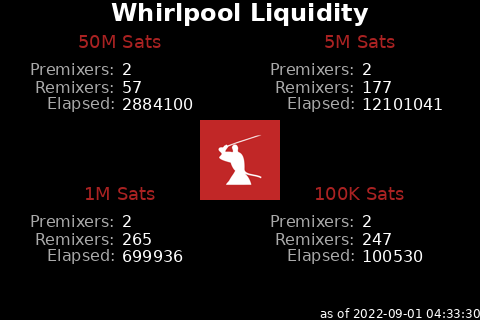
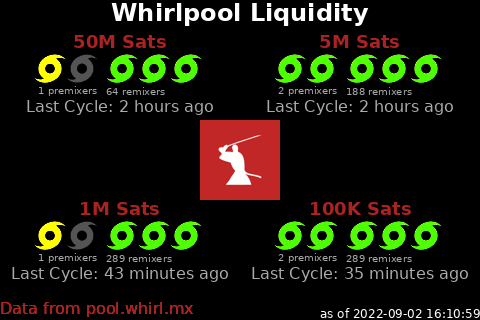
Improve Whirlpool visual (#103)

diff --git a/scripts/whirlpoolliquidity.py b/scripts/whirlpoolliquidity.py
@@ -1,5 +1,5 @@
 #! /usr/bin/env python3
-from datetime import datetime
+from datetime import datetime, timedelta
 from os.path import exists
 from PIL import Image, ImageDraw, ImageColor
 import json
@@ -17,32 +17,101 @@ def getpoolinfo(pools, poolid):
     nbRegistered = -1
     nbConfirmed = -1
     elapsedTime = -1
+    found = False
     for pool in pools["pools"]:
         if pool["poolId"] == poolid:
-            nbRegistered = pool["nbRegistered"]
-            nbConfirmed = pool["nbConfirmed"]
-            elapsedTime = pool["elapsedTime"]
+            found = True
+            if "nbRegistered" in pool:
+                nbRegistered = int(pool["nbRegistered"])
+            if "nbConfirmed" in pool:
+                nbConfirmed = int(pool["nbConfirmed"])
+            if "elapsedTime" in pool:
+                elapsedTime = int(pool["elapsedTime"])
+            print(f"found pool {poolid}: premixers = {nbConfirmed}, remixers = {nbRegistered}, ms since last: {elapsedTime}")
             break
+    if not found:
+        print(f"did not locate pool with id: {poolid}.")
     return nbRegistered, nbConfirmed, elapsedTime
 
-def drawpool(draw, pools, poolid, quadheader, topx, topy, bottomx, bottomy):
+def gethumantime(timeinms, partcount=1):
+    d = timedelta(milliseconds=timeinms)
+    seconds = int(d.total_seconds() // 1)
+    o = ""
+    if partcount > 0 and (seconds // 86400) > 0:
+        days = seconds // 86400
+        o = o + ", " if len(o) > 0 else o
+        o = o + str(days) + " day"
+        o = o + "s" if days > 1 else ""
+        partcount = partcount - 1
+        seconds -= (days * 86400)
+    if partcount > 0 and (seconds // 3600) > 0:
+        hours = seconds // 3600
+        o = o + ", " if len(o) > 0 else o
+        o = o + str(hours) + " hour"
+        o = o + "s" if hours > 1 else ""
+        partcount = partcount - 1
+        seconds -= (hours * 3600)
+    if partcount > 0 and (seconds // 60) > 0:
+        minutes = seconds // 60
+        o = o + ", " if len(o) > 0 else o
+        o = o + str(minutes) + " minute"
+        o = o + "s" if minutes > 1 else ""
+        partcount = partcount - 1
+    if partcount > 0 and seconds > 0:
+        o = o + ", " if len(o) > 0 else o
+        o = o + str(seconds) + " second"
+        o = o + "s" if seconds > 1 else ""
+        partcount = partcount - 1
+    if o == "":
+        o = "now"
+    else:
+        o += " ago"
+    return o
+
+def drawpool(im, draw, pools, poolid, quadheader, topx, topy, bottomx, bottomy):
     remixers, premixers, elapsedTime = getpoolinfo(pools, poolid)
+    humantime = gethumantime(elapsedTime, 1)
     headersize=18
-    vicarioustext.drawcenteredtext(draw, quadheader, headersize, topx+(bottomx-topx)//2, topy + (headersize // 3 * 2), colorPoolHeader, False)
+    vicarioustext.drawcenteredtext(draw, quadheader, headersize, topx+(bottomx-topx)//2, topy + (headersize // 3 * 2), colorPoolHeader, True)
     labelsize=16
     labelbuf=4
     labelline=1.1
-    vicarioustext.drawrighttext(draw, "Premixers: ", labelsize, topx+(bottomx-topx)//2, topy + (headersize + (1 * labelsize * labelline) + labelbuf), colorPremixers, False)
-    vicarioustext.drawrighttext(draw, "Remixers: ", labelsize, topx+(bottomx-topx)//2, topy + (headersize + (2 * labelsize * labelline) + labelbuf), colorRemixers, False)
-    vicarioustext.drawrighttext(draw, "Elapsed: ", labelsize, topx+(bottomx-topx)//2, topy + (headersize + (3 * labelsize * labelline) + labelbuf), colorElapsed, False)
-    vicarioustext.drawlefttext(draw, str(premixers), labelsize, topx+(bottomx-topx)//2 + 2, topy + (headersize + (1 * labelsize * labelline) + labelbuf), colorTextFG, False)
-    vicarioustext.drawlefttext(draw, str(remixers), labelsize, topx+(bottomx-topx)//2 + 2, topy + (headersize + (2 * labelsize * labelline) + labelbuf), colorTextFG, False)
-    vicarioustext.drawlefttext(draw, str(elapsedTime), labelsize, topx+(bottomx-topx)//2 + 2, topy + (headersize + (3 * labelsize * labelline) + labelbuf), colorTextFG, False)
+    whirlsize=32
+    whirlpad=8
+    whirllabelsize=10
+    # Last Cycle
+    t = "Last Cycle: " + humantime
+    vicarioustext.drawcenteredtext(draw, t, labelsize, topx+(bottomx-topx)//2, topy + (headersize + (3.2 * labelsize * labelline) + labelbuf), colorElapsed, False)
+    # Draw whirls for premix
+    center = int( topx + (bottomx-topx)//2 + 2 )
+    x = int(center - (whirlsize * 2.5) - whirlpad)
+    y = int( topy + (headersize + (1 * labelsize * labelline) + labelbuf) )
+    for w in range(2):
+        c = "grey"
+        c = "yellow" if (premixers == 1 and premixers > w) else c
+        c = "green" if premixers >= 2 else c
+        drawwhirl(im, x + (w * whirlsize), y-(whirlsize//2), c)
+    t = str(premixers) + " premixer"
+    t = t + "s" if premixers != 1 else t
+    vicarioustext.drawrighttext(draw, t, whirllabelsize, x + (2 * whirlsize), topy + (headersize + (2.25 * labelsize * labelline) + labelbuf), colorPremixers, False)
+    # Draw whirls for remix
+    x = int(center - (whirlsize * 0.5))
+    y = topy + (headersize + (1 * labelsize * labelline) + labelbuf)
+    for w in range(3):
+        c = "grey"
+        c = "yellow" if (remixers >=1 and remixers > w) else c
+        c = "green" if remixers >= 3 else c
+        drawwhirl(im, x + (w * whirlsize), y-(whirlsize//2), c)
+    t = str(remixers) + " remixer"
+    t = t + "s" if remixers != 1 else t
+    vicarioustext.drawlefttext(draw, t, whirllabelsize, x, topy + (headersize + (2.25 * labelsize * labelline) + labelbuf), colorPremixers, False)
+    # Attribution
+    vicarioustext.drawbottomlefttext(draw, "Data from pool.whirl.mx", 16, 0, height, colorPoolHeader)
 
 def drawlogo(im, canvaswidth, canvasheight, targetWidth):
-    if not exists(logoFile):
+    if not exists(logoSamouraiFile):
         return
-    logoImage=Image.open(logoFile)
+    logoImage=Image.open(logoSamouraiFile)
     logoWidth=int(logoImage.getbbox()[2])
     logoHeight=int(logoImage.getbbox()[3])
     logoRatio=float(logoWidth)/float(logoHeight)
@@ -56,11 +125,26 @@ def drawlogo(im, canvaswidth, canvasheight, targetWidth):
     im.paste(newLogo, logoPos)
     newLogo.close()
 
+def drawwhirl(im, x, y, c="grey"):
+    logoWhirlpoolFile = "/home/nodeyez/nodeyez/images/whirlpool-" + c + "-32.png"
+    if not exists(logoWhirlpoolFile):
+        return
+    i = Image.open(logoWhirlpoolFile)
+    l = (int(x),int(y))
+    im.paste(i, l)
+    i.close()
+
 def getfileageinseconds(pathname):
+    if not exists(pathname):
+        return 0
     return time.time() - os.stat(pathname)[stat.ST_MTIME]
 
-def getorloadliquidity():
+def getwhirldatafile():
     whirlfile = whirlDirectory + "whirlpoolliquidity.json"
+    return whirlfile
+
+def getorloadliquidity():
+    whirlfile = getwhirldatafile()
     refreshData = False
     if not exists(whirlfile):
         refreshData = True
@@ -71,6 +155,12 @@ def getorloadliquidity():
     if refreshData:
         print("Refreshing whirlpool liquidity data")
         pools = vicariousnetwork.getwhirlpoolliquidity()
+        found = False
+        remixers, premixers, elapsedTime = getpoolinfo(pools, "0.5btc")
+        if remixers == -1 or premixers == -1:
+            print("failed to retrieve valid liquidity data")
+            # failed to retrieve. dont save, just return
+            return pools
         with open(whirlfile, "w") as f:
             json.dump(pools, f)
     else:
@@ -78,6 +168,13 @@ def getorloadliquidity():
         with open(whirlfile) as f:
             pools = json.load(f)
     return pools
+
+def getfiledateandtime(pathname):
+    dt = datetime.utcnow()
+    if exists(pathname):
+        fileage = getfileageinseconds(pathname)
+        dt = dt - timedelta(seconds=fileage)
+    return dt.strftime("%Y-%m-%d %H:%M:%S")
 
 # ---------------------------------------
 
@@ -91,16 +188,15 @@ def createimage(width=480, height=320):
     vicarioustext.drawcenteredtext(draw, "Whirlpool Liquidity", 24, int(width/2), int(headerheight/2), colorHeader, True)
     # Pools
     quadwidth = width // 2
-    print(f"quadwidth: {quadwidth}, width: {width}")
-    quadheight = (height - (headerheight + footerheight)) // 2
-    drawpool(draw, pools, "0.5btc", "50M Sats", 0, headerheight, quadwidth, headerheight + quadheight)
-    drawpool(draw, pools, "0.05btc", "5M Sats", quadwidth + 1, headerheight, width, headerheight + quadheight)
-    drawpool(draw, pools, "0.01btc", "1M Sats", 0, headerheight + quadheight + footerheight, quadwidth, height - footerheight)
-    drawpool(draw, pools, "0.001btc", "100K Sats", quadwidth + 1, headerheight + quadheight + footerheight, width, height - footerheight)
+    quadheight = int( (height - (headerheight + footerheight)) // 2 )
+    drawpool(im, draw, pools, "0.5btc", "50M Sats", 0, headerheight, quadwidth, headerheight + quadheight)
+    drawpool(im, draw, pools, "0.05btc", "5M Sats", quadwidth + 1, headerheight, width, headerheight + quadheight)
+    drawpool(im, draw, pools, "0.01btc", "1M Sats", 0, headerheight + quadheight + footerheight + footerheight, quadwidth, height - footerheight)
+    drawpool(im, draw, pools, "0.001btc", "100K Sats", quadwidth + 1, headerheight + quadheight + footerheight + footerheight, width, height - footerheight)
     # Samourai Logo
     drawlogo(im, width, height, 80)
     # Date and Time
-    vicarioustext.drawbottomrighttext(draw, "as of " + vicarioustext.getdateandtime(), 12, width, height, colorTextFG)
+    vicarioustext.drawbottomrighttext(draw, "as of " + getfiledateandtime(getwhirldatafile()), 12, width, height, colorTextFG)
     # Save to file
     im.save(outputFile)
     im.close()
@@ -108,9 +204,9 @@ def createimage(width=480, height=320):
 
 if __name__ == '__main__':
     # Defaults
-    configFile = "/home/nodeyez/nodeyez/config/whirlpool.json"
+    configFile = "/home/nodeyez/nodeyez/config/whirlpoolliquidity.json"
     outputFile = "/home/nodeyez/nodeyez/imageoutput/whirlpoolliquidity.png"
-    logoFile = "/home/nodeyez/nodeyez/images/samourai.png"
+    logoSamouraiFile = "/home/nodeyez/nodeyez/images/samourai.png"
     dataDirectory = "/home/nodeyez/nodeyez/data/"
     useTor=True
     width=480

diff --git a/scripts/vicariousnetwork.py b/scripts/vicariousnetwork.py
@@ -220,16 +220,16 @@ def getwhirlpoolliquidity(useTor=True):
         {"pools":[
          {"poolId":"0.01btc","denomination":1000000,"feeValue":50000,
           "mustMixBalanceMin":1000170,"mustMixBalanceCap":1009690,"mustMixBalanceMax":1019125,"minAnonymitySet":5,"minMustMix":2,
-          "tx0MaxOutputs":70,"nbRegistered":265,"mixAnonymitySet":5,"mixStatus":"CONFIRM_INPUT","elapsedTime":699936,"nbConfirmed":2},
+          "tx0MaxOutputs":70,"nbRegistered":-1,"mixAnonymitySet":5,"mixStatus":"CONFIRM_INPUT","elapsedTime":5297,"nbConfirmed":-1},
          {"poolId":"0.001btc","denomination":100000,"feeValue":5000,
           "mustMixBalanceMin":100170,"mustMixBalanceCap":109690,"mustMixBalanceMax":119125,"minAnonymitySet":5,"minMustMix":2,
-          "tx0MaxOutputs":25,"nbRegistered":247,"mixAnonymitySet":5,"mixStatus":"CONFIRM_INPUT","elapsedTime":100530,"nbConfirmed":2},
+          "tx0MaxOutputs":25,"nbRegistered":-1,"mixAnonymitySet":5,"mixStatus":"CONFIRM_INPUT","elapsedTime":2296,"nbConfirmed":-1},
          {"poolId":"0.05btc","denomination":5000000,"feeValue":175000,
           "mustMixBalanceMin":5000170,"mustMixBalanceCap":5009690,"mustMixBalanceMax":5019125,"minAnonymitySet":5,"minMustMix":2,
-          "tx0MaxOutputs":70,"nbRegistered":177,"mixAnonymitySet":5,"mixStatus":"CONFIRM_INPUT","elapsedTime":12101041,"nbConfirmed":2},
+          "tx0MaxOutputs":70,"nbRegistered":-1,"mixAnonymitySet":5,"mixStatus":"CONFIRM_INPUT","elapsedTime":9298,"nbConfirmed":-1},
          {"poolId":"0.5btc","denomination":50000000,"feeValue":1750000,
           "mustMixBalanceMin":50000170,"mustMixBalanceCap":50009690,"mustMixBalanceMax":50019125,"minAnonymitySet":5,"minMustMix":2,
-          "tx0MaxOutputs":70,"nbRegistered":57,"mixAnonymitySet":5,"mixStatus":"CONFIRM_INPUT","elapsedTime":2884100,"nbConfirmed":2}
+          "tx0MaxOutputs":70,"nbRegistered":-1,"mixAnonymitySet":5,"mixStatus":"CONFIRM_INPUT","elapsedTime":1299,"nbConfirmed":-1}
          ]}'''
     j = json.loads(cmdoutput)
     return j
